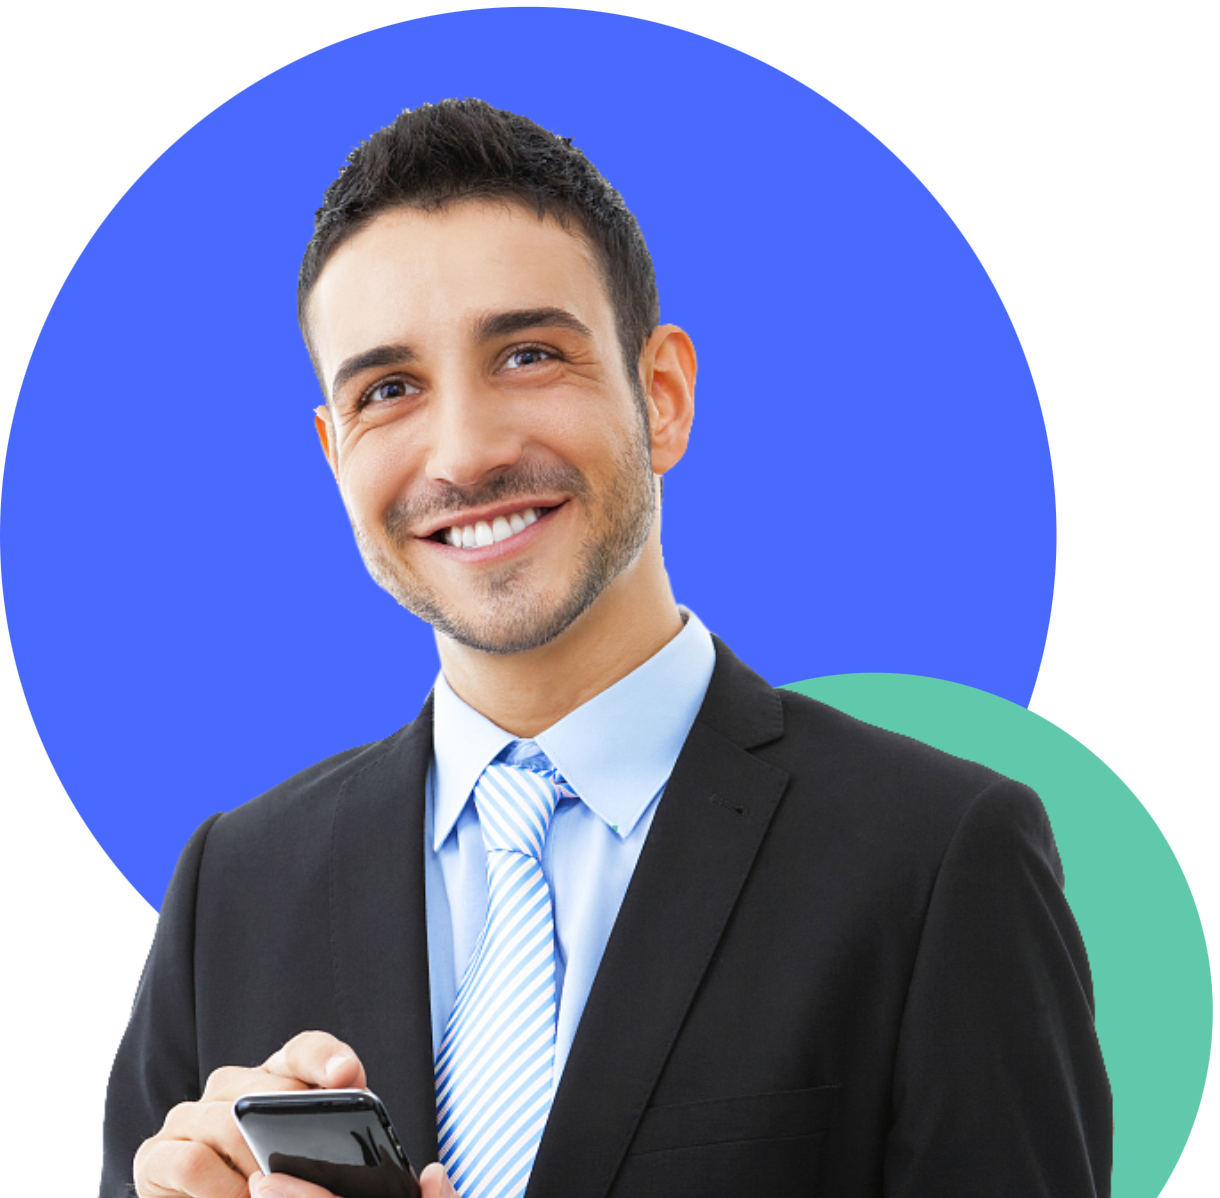
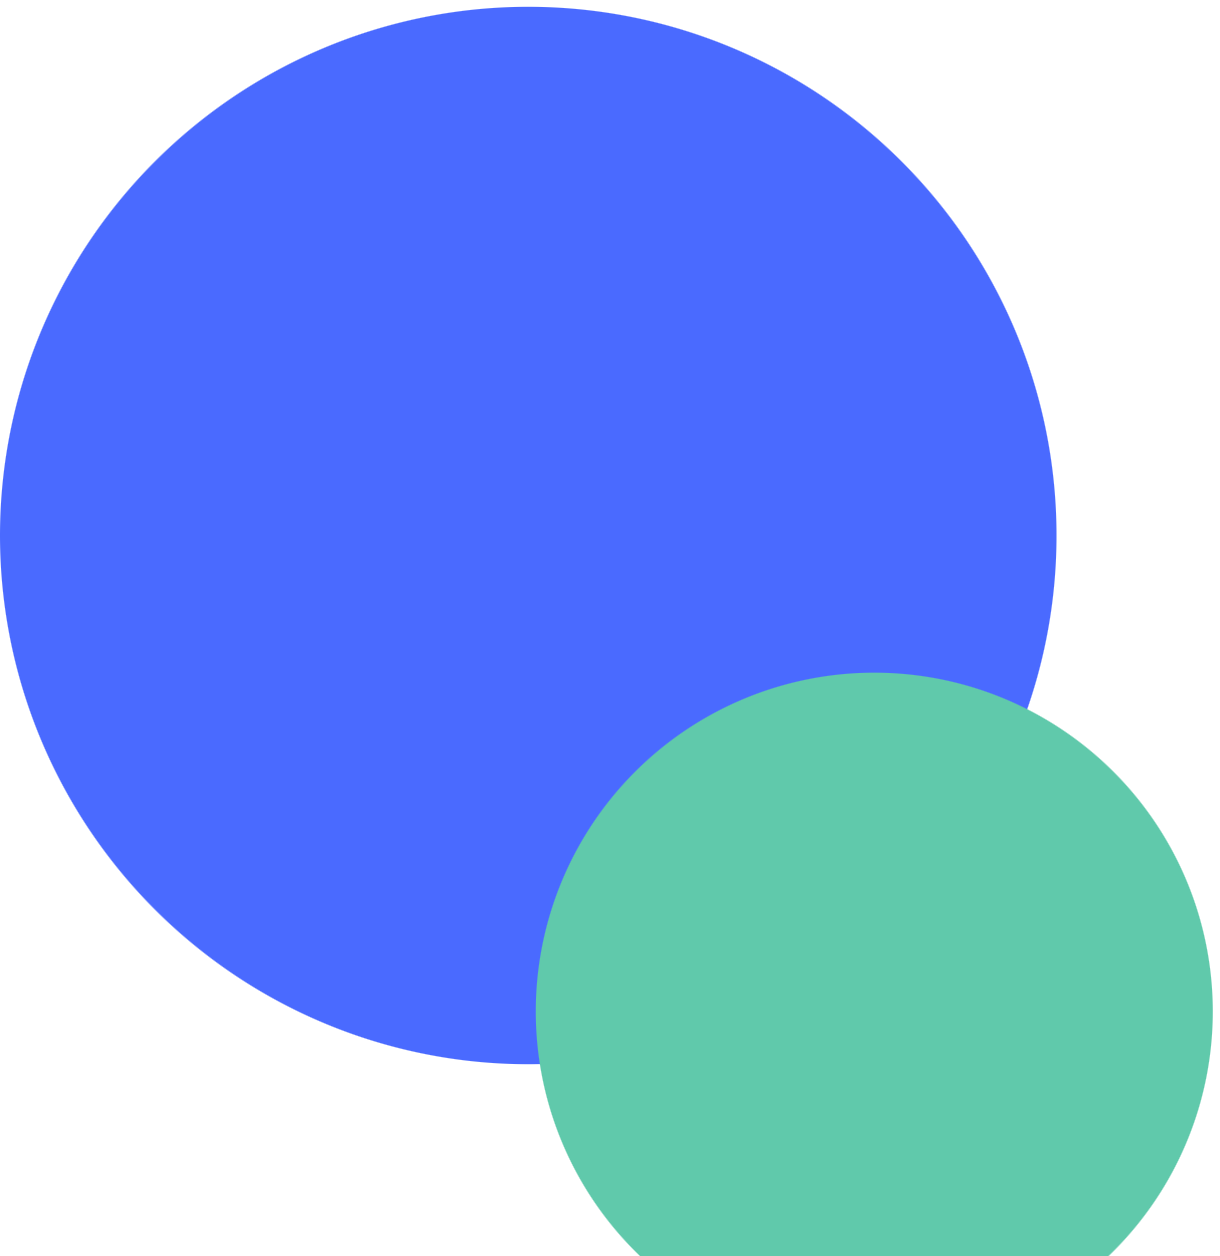
style: 修改样式

diff --git a/pages/zh-cn/index.vue b/pages/zh-cn/index.vue
@@ -660,11 +660,21 @@
     </div>
     <div class="service">
       <div class="service-container layout">
-        <div class="service-left" data-aos="fade-right">
-          <p class="title">为多种类型的企业和个人提供定制化服务</p>
-          <p class="desc">支持实物贸易、服务贸易、全球投资、跨境电商等企业类型，服务留学生、移民、跨境工作者、个人投资者。</p>
+        <div class="service-left">
+          <p class="title" data-aos="fade-up">为多种类型的企业和个人提供定制化服务</p>
+          <p class="desc" data-aos="fade-up">支持实物贸易、服务贸易、全球投资、跨境电商等企业类型，服务留学生、移民、跨境工作者、个人投资者。</p>
         </div>
-        <div class="service-right background" data-aos="fade-left"></div>
+        <div class="service-right background" data-aos="fade-up">
+          <div class="service-person" data-aos="fade-up" data-aos-delay="50">
+            <img src="@/assets/image/home/service-person.png" alt="">
+          </div>
+          <!-- <div class="service-img service-img-01" data-aos="fade">
+            <img src="@/assets/image/home/service-img-01.png" alt="">
+          </div>
+          <div class="service-img service-img-02" data-aos="fade">
+            <img src="@/assets/image/home/service-img-02.png" alt="">
+          </div> -->
+        </div>
       </div>
     </div>
     <div class="global-net">
@@ -711,24 +721,24 @@
             class="customer-left-item background"
             data-aos="fade"
             data-aos-offset="350">
-            <p class="title" data-aos="fade-up" data-aos-offset="350" data-aos-duration="600" data-aos-delay="400">实物贸易型企业</p>
-            <p class="desc" data-aos="fade-up" data-aos-offset="350" data-aos-duration="600" data-aos-delay="400">针对实物贸易型企业的实际业务需求，尤其是中小企业在国际银行开户及全球汇款等方面的痛点，CBiBank可为客户提供相应的高效、便捷的银行服务。</p>
+            <p class="title" data-aos="fade" data-aos-offset="350" data-aos-duration="600" data-aos-delay="100">实物贸易型企业</p>
+            <p class="desc" data-aos="fade" data-aos-offset="350" data-aos-duration="600" data-aos-delay="200">针对实物贸易型企业的实际业务需求，尤其是中小企业在国际银行开户及全球汇款等方面的痛点，CBiBank可为客户提供相应的高效、便捷的银行服务。</p>
           </div>
           <div
             v-if="activeTab === 'customer-service'"
             class="customer-left-item background"
             data-aos="fade"
             data-aos-offset="350">
-            <p class="title" data-aos="fade-up" data-aos-offset="350" data-aos-duration="600" data-aos-delay="400">服务贸易型企业</p>
-            <p class="desc" data-aos="fade-up" data-aos-offset="350" data-aos-duration="600" data-aos-delay="400">基于出海服务型企业对全球多币种开户、跨境支付和定制化金融产品的迫切需求，CBiBank为IT外包、互联网运营服务等行业的出海服务型企业打造了定制化的银行服务和多元化的解决方案。</p>
+            <p class="title" data-aos="fade" data-aos-offset="350" data-aos-duration="600" data-aos-delay="100">服务贸易型企业</p>
+            <p class="desc" data-aos="fade" data-aos-offset="350" data-aos-duration="600" data-aos-delay="200">基于出海服务型企业对全球多币种开户、跨境支付和定制化金融产品的迫切需求，CBiBank为IT外包、互联网运营服务等行业的出海服务型企业打造了定制化的银行服务和多元化的解决方案。</p>
           </div>
           <div
             v-if="activeTab === 'customer-invest'"
             class="customer-left-item background"
             data-aos="fade"
             data-aos-offset="350">
-            <p class="title" data-aos="fade-up" data-aos-offset="350" data-aos-duration="600" data-aos-delay="400">国际投融资企业</p>
-            <p class="desc" data-aos="fade-up" data-aos-offset="350" data-aos-duration="600" data-aos-delay="400">赴海外投资和融资企业在国际金融业务方面的需求往往多样复杂，CBiBank可为客户提供基于CBiBank银行帐户之上的安全、高效、多元化资产管理解决方案。</p>
+            <p class="title" data-aos="fade" data-aos-offset="350" data-aos-duration="600" data-aos-delay="100">国际投融资企业</p>
+            <p class="desc" data-aos="fade" data-aos-offset="350" data-aos-duration="600" data-aos-delay="200">赴海外投资和融资企业在国际金融业务方面的需求往往多样复杂，CBiBank可为客户提供基于CBiBank银行帐户之上的安全、高效、多元化资产管理解决方案。</p>
           </div>
         </div>
         <div class="customer-right">
@@ -1869,6 +1879,7 @@ const swiperPartnersModules = ref([Autoplay])
   .service {
     height: 700px;
     background-color: @topwhite;
+    overflow: hidden;
     .service-container {
       display: flex;
       padding-top: 100px;
@@ -1893,8 +1904,26 @@ const swiperPartnersModules = ref([Autoplay])
         height: 600px;
         margin-left: 145px;
         margin-right: -75px;
-        // margin-left: 70px;
         background-image: url('@/assets/image/home/service-bg.png');
+        .service-person {
+          width: 100%;
+          height: 100%;
+        }
+        .service-img {
+          width: 222px;
+          height: 130px;
+          box-shadow: 0px 5px 25px -6px rgba(22,31,91,0.149);
+          &.service-img-01 {
+            position: absolute;
+            top: 68px;
+            right: -16px;
+          }
+          &.service-img-02 {
+            position: absolute;
+            top: 340px;
+            left: -96px;
+          }
+        }
       }
     }
   }
